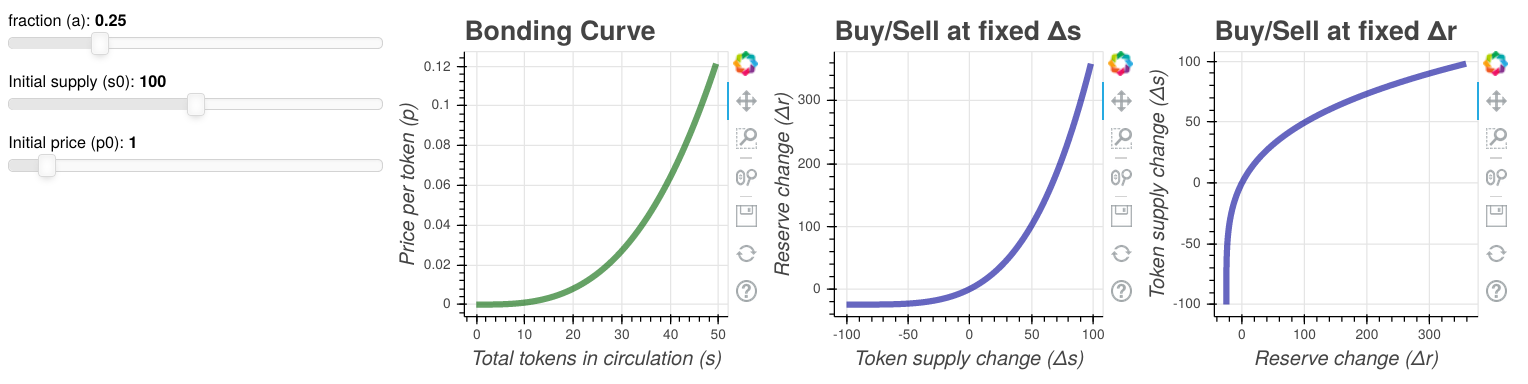
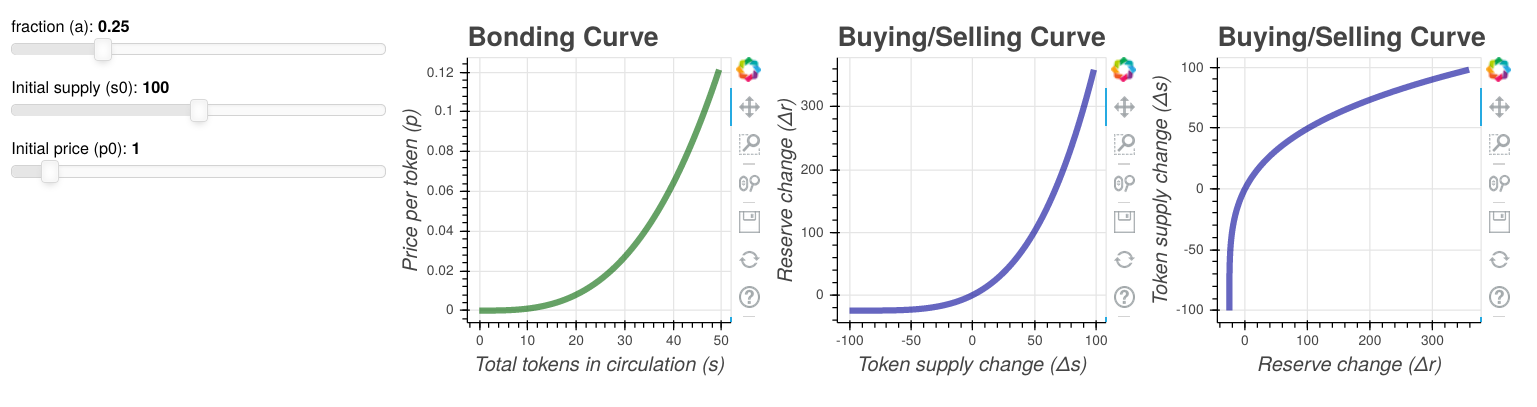
fixed titles on graph

diff --git a/_includes/blog-aux/2020_07_26_bancor_v1_bonding_curve.html b/_includes/blog-aux/2020_07_26_bancor_v1_bonding_curve.html
@@ -34,14 +34,14 @@
           
           
             
-              <div class="bk-root" id="29749f99-daf9-4105-abf7-8b9b78729167" data-root-id="1128"></div>
+              <div class="bk-root" id="88ffb089-7964-4b75-82d1-b524e95e16f4" data-root-id="1127"></div>
             
           
         
       
       
-        <script type="application/json" id="1353">
-          {"8e31af97-c3a5-4c50-aa85-7bd8824f951f":{"roots":{"references":[{"attributes":{"below":[{"id":"1093"}],"center":[{"id":"1096"},{"id":"1100"}],"left":[{"id":"1097"}],"plot_height":300,"plot_width":300,"renderers":[{"id":"1118"}],"title":{"id":"1083"},"toolbar":{"id":"1108"},"x_range":{"id":"1085"},"x_scale":{"id":"1089"},"y_range":{"id":"1087"},"y_scale":{"id":"1091"}},"id":"1082","subtype":"Figure","type":"Plot"},{"attributes":{"bottom_units":"screen","fill_alpha":0.5,"fill_color":"lightgrey","left_units":"screen","level":"overlay","line_alpha":1.0,"line_color":"black","line_dash":[4,4],"line_width":2,"render_mode":"css","right_units":"screen","top_units":"screen"},"id":"1107","type":"BoxAnnotation"},{"attributes":{},"id":"1051","type":"LinearScale"},{"attributes":{},"id":"1135","type":"BasicTickFormatter"},{"attributes":{"callback":null,"mode":"vline","tooltips":[["Buy / Sell","@x2 tokens"],["Cost / Gain","$@y2"]]},"id":"1080","type":"HoverTool"},{"attributes":{},"id":"1085","type":"DataRange1d"},{"attributes":{},"id":"1137","type":"BasicTickFormatter"},{"attributes":{},"id":"1049","type":"LinearScale"},{"attributes":{"text":"Buy/Sell at fixed \u0394r","text_font_size":{"value":"16pt"}},"id":"1083","type":"Title"},{"attributes":{"end":200,"format":"0[.]00","js_property_callbacks":{"change:value":[{"id":"1125"}]},"start":0.01,"title":"Initial supply (s0)","value":100},"id":"1123","type":"Slider"},{"attributes":{"bottom_units":"screen","fill_alpha":0.5,"fill_color":"lightgrey","left_units":"screen","level":"overlay","line_alpha":1.0,"line_color":"black","line_dash":[4,4],"line_width":2,"render_mode":"css","right_units":"screen","top_units":"screen"},"id":"1027","type":"BoxAnnotation"},{"attributes":{"data":{"x1":[0.0,0.5,1.0,1.5,2.0,2.5,3.0,3.5000000000000004,4.0,4.5,5.0,5.5,6.0,6.5,7.000000000000001,7.5,8.0,8.5,9.0,9.5,10.0,10.5,11.0,11.5,12.0,12.5,13.0,13.5,14.000000000000002,14.499999999999998,15.0,15.5,16.0,16.5,17.0,17.5,18.0,18.5,19.0,19.5,20.0,20.5,21.0,21.5,22.0,22.5,23.0,23.5,24.0,24.5,25.0,25.5,26.0,26.5,27.0,27.500000000000004,28.000000000000004,28.499999999999996,28.999999999999996,29.5,30.0,30.5,31.0,31.5,32.0,32.5,33.0,33.5,34.0,34.5,35.0,35.5,36.0,36.5,37.0,37.5,38.0,38.5,39.0,39.5,40.0,40.5,41.0,41.5,42.0,42.5,43.0,43.5,44.0,44.5,45.0,45.5,46.0,46.5,47.0,47.5,48.0,48.5,49.0,49.5],"x2":[-100.0,-98.0,-96.0,-94.0,-92.0,-90.0,-88.0,-86.0,-84.0,-82.0,-80.0,-78.0,-76.0,-74.0,-72.0,-70.0,-68.0,-66.0,-64.0,-62.0,-60.0,-57.99999999999999,-56.00000000000001,-54.0,-52.0,-50.0,-48.0,-46.0,-44.0,-42.0,-40.0,-38.0,-36.0,-34.0,-32.0,-30.0,-28.000000000000004,-26.0,-24.0,-22.0,-20.0,-18.0,-16.0,-14.000000000000002,-12.0,-10.0,-8.0,-6.0,-4.0,-2.0,0.0,2.0,4.0,6.0,8.0,10.0,12.0,14.000000000000002,16.0,18.0,20.0,22.0,24.0,26.0,28.000000000000004,30.0,32.0,34.0,36.0,38.0,40.0,42.0,44.0,46.0,48.0,50.0,52.0,54.0,56.00000000000001,57.99999999999999,60.0,62.0,64.0,66.0,68.0,70.0,72.0,74.0,76.0,78.0,80.0,82.0,84.0,86.0,88.0,90.0,92.0,94.0,96.0,98.0],"y1":[0.0,1.2500000000000002e-07,1.0000000000000002e-06,3.3749999999999995e-06,8.000000000000001e-06,1.5625000000000004e-05,2.6999999999999996e-05,4.287500000000001e-05,6.400000000000001e-05,9.112499999999999e-05,0.00012500000000000003,0.000166375,0.00021599999999999996,0.000274625,0.0003430000000000001,0.00042187499999999994,0.0005120000000000001,0.0006141250000000001,0.0007289999999999999,0.0008573750000000001,0.0010000000000000002,0.0011576249999999998,0.001331,0.001520875,0.0017279999999999997,0.001953125,0.002197,0.0024603750000000003,0.0027440000000000008,0.0030486249999999993,0.0033749999999999995,0.0037238749999999998,0.004096000000000001,0.0044921250000000005,0.004913000000000001,0.005359374999999999,0.0058319999999999995,0.006331625,0.0068590000000000005,0.0074148750000000005,0.008000000000000002,0.008615124999999998,0.009260999999999998,0.009938375,0.010648,0.011390625000000001,0.012167,0.012977874999999998,0.013823999999999998,0.014706124999999999,0.015625,0.016581375000000002,0.017576,0.018609625,0.019683000000000003,0.020796875000000006,0.021952000000000006,0.023149124999999993,0.024388999999999994,0.025672374999999997,0.026999999999999996,0.028372625,0.029790999999999998,0.031255875,0.032768000000000005,0.034328125,0.035937000000000004,0.03759537500000001,0.039304000000000006,0.04106362499999999,0.04287499999999999,0.04473887499999999,0.046655999999999996,0.04862712499999999,0.050653,0.052734375,0.054872000000000004,0.057066625,0.059319000000000004,0.06162987500000001,0.06400000000000002,0.066430125,0.06892099999999998,0.07147337499999999,0.07408799999999999,0.07676562499999999,0.079507,0.082312875,0.085184,0.08812112500000001,0.09112500000000001,0.09419637500000001,0.097336,0.10054462500000001,0.10382299999999998,0.10717187499999999,0.11059199999999998,0.114084125,0.11764899999999999,0.121287375],"y2":[-25.0,-24.999996,-24.999936,-24.999676,-24.998976,-24.9975,-24.994816,-24.990396,-24.983616,-24.973755999999998,-24.959999999999997,-24.941436,-24.917056000000002,-24.885756,-24.846336,-24.7975,-24.737856,-24.665916,-24.580096,-24.478716,-24.36,-24.222076,-24.062976,-23.880636,-23.672895999999998,-23.4375,-23.172096,-22.874236,-22.541376,-22.170875999999996,-21.76,-21.305916,-20.805696,-20.256316,-19.654656000000003,-18.997500000000002,-18.281536000000003,-17.503356,-16.659456,-15.746235999999996,-14.759999999999998,-13.696955999999997,-12.553216,-11.324796000000001,-10.007616,-8.5975,-7.090175999999998,-5.481276000000005,-3.7663360000000035,-1.9407960000000029,0.0,2.060803999999999,4.246464000000005,6.561924000000008,9.012224000000007,11.60250000000001,14.337984000000015,17.224004000000022,20.265983999999985,23.46944399999999,26.839999999999996,30.38336399999999,34.105343999999995,38.011844,42.108864000000004,46.40250000000001,50.898944000000014,55.60448400000002,60.52550399999996,65.66848399999998,71.03999999999998,76.64672399999999,82.49542399999999,88.59296399999998,94.946304,101.5625,108.44870399999999,115.612164,123.06022400000003,130.80032400000005,138.84000000000003,147.18688400000005,155.84870400000005,164.83328400000005,174.14854400000007,183.80249999999995,193.80326399999998,204.15904399999997,214.878144,225.968964,237.44,249.29984399999992,261.5571839999999,274.22080399999993,287.2995839999999,300.80249999999995,314.73862399999996,329.117124,343.94726399999996,359.238404]},"selected":{"id":"1146"},"selection_policy":{"id":"1145"}},"id":"1001","type":"ColumnDataSource"},{"attributes":{},"id":"1139","type":"BasicTickFormatter"},{"attributes":{},"id":"1054","type":"BasicTicker"},{"attributes":{},"id":"1141","type":"BasicTickFormatter"},{"attributes":{"axis":{"id":"1053"},"ticker":null},"id":"1056","type":"Grid"},{"attributes":{},"id":"1089","type":"LinearScale"},{"attributes":{},"id":"1087","type":"DataRange1d"},{"attributes":{},"id":"1143","type":"BasicTickFormatter"},{"attributes":{"axis_label":"Token supply change (\u0394s)","axis_label_text_font_size":"12pt","formatter":{"id":"1139"},"ticker":{"id":"1054"}},"id":"1053","type":"LinearAxis"},{"attributes":{},"id":"1146","type":"Selection"},{"attributes":{"axis":{"id":"1057"},"dimension":1,"ticker":null},"id":"1060","type":"Grid"},{"attributes":{},"id":"1091","type":"LinearScale"},{"attributes":{},"id":"1058","type":"BasicTicker"},{"attributes":{"axis_label":"Reserve change (\u0394r)","axis_label_text_font_size":"12pt","formatter":{"id":"1137"},"ticker":{"id":"1058"}},"id":"1057","type":"LinearAxis"},{"attributes":{"axis_label":"Reserve change (\u0394r)","axis_label_text_font_size":"12pt","formatter":{"id":"1143"},"ticker":{"id":"1094"}},"id":"1093","type":"LinearAxis"},{"attributes":{"axis":{"id":"1097"},"dimension":1,"ticker":null},"id":"1100","type":"Grid"},{"attributes":{},"id":"1009","type":"LinearScale"},{"attributes":{},"id":"1094","type":"BasicTicker"},{"attributes":{"line_alpha":0.1,"line_color":"rgb(0, 0, 150)","line_width":5,"x":{"field":"x2"},"y":{"field":"y2"}},"id":"1077","type":"Line"},{"attributes":{"axis":{"id":"1093"},"ticker":null},"id":"1096","type":"Grid"},{"attributes":{},"id":"1018","type":"BasicTicker"},{"attributes":{},"id":"1011","type":"LinearScale"},{"attributes":{"data_source":{"id":"1001"},"glyph":{"id":"1076"},"hover_glyph":null,"muted_glyph":null,"nonselection_glyph":{"id":"1077"},"selection_glyph":null,"view":{"id":"1079"}},"id":"1078","type":"GlyphRenderer"},{"attributes":{},"id":"1098","type":"BasicTicker"},{"attributes":{"active_drag":"auto","active_inspect":"auto","active_multi":null,"active_scroll":"auto","active_tap":"auto","tools":[{"id":"1061"},{"id":"1062"},{"id":"1063"},{"id":"1064"},{"id":"1065"},{"id":"1066"},{"id":"1080"}]},"id":"1068","type":"Toolbar"},{"attributes":{"axis_label":"Token supply change (\u0394s)","axis_label_text_font_size":"12pt","formatter":{"id":"1141"},"ticker":{"id":"1098"}},"id":"1097","type":"LinearAxis"},{"attributes":{"axis_label":"Price per token (p)","axis_label_text_font_size":"12pt","formatter":{"id":"1133"},"ticker":{"id":"1018"}},"id":"1017","type":"LinearAxis"},{"attributes":{"axis_label":"Total tokens in circulation (s)","axis_label_text_font_size":"12pt","formatter":{"id":"1135"},"ticker":{"id":"1014"}},"id":"1013","type":"LinearAxis"},{"attributes":{"source":{"id":"1001"}},"id":"1079","type":"CDSView"},{"attributes":{},"id":"1145","type":"UnionRenderers"},{"attributes":{},"id":"1061","type":"PanTool"},{"attributes":{},"id":"1062","type":"WheelZoomTool"},{"attributes":{},"id":"1014","type":"BasicTicker"},{"attributes":{"axis":{"id":"1013"},"ticker":null},"id":"1016","type":"Grid"},{"attributes":{"overlay":{"id":"1067"}},"id":"1063","type":"BoxZoomTool"},{"attributes":{"line_alpha":0.6,"line_color":"rgb(0, 0, 150)","line_width":5,"x":{"field":"y2"},"y":{"field":"x2"}},"id":"1116","type":"Line"},{"attributes":{},"id":"1064","type":"SaveTool"},{"attributes":{"callback":null,"mode":"vline","tooltips":[["Cash out / Pay","$@y2"],["Lose / Gain","$@x2 tokens"]]},"id":"1120","type":"HoverTool"},{"attributes":{"axis":{"id":"1017"},"dimension":1,"ticker":null},"id":"1020","type":"Grid"},{"attributes":{},"id":"1101","type":"PanTool"},{"attributes":{},"id":"1065","type":"ResetTool"},{"attributes":{"line_alpha":0.6,"line_color":"rgb(0, 0, 150)","line_width":5,"x":{"field":"x2"},"y":{"field":"y2"}},"id":"1076","type":"Line"},{"attributes":{},"id":"1102","type":"WheelZoomTool"},{"attributes":{},"id":"1047","type":"DataRange1d"},{"attributes":{},"id":"1066","type":"HelpTool"},{"attributes":{"overlay":{"id":"1107"}},"id":"1103","type":"BoxZoomTool"},{"attributes":{"data_source":{"id":"1001"},"glyph":{"id":"1036"},"hover_glyph":null,"muted_glyph":null,"nonselection_glyph":{"id":"1037"},"selection_glyph":null,"view":{"id":"1039"}},"id":"1038","type":"GlyphRenderer"},{"attributes":{},"id":"1045","type":"DataRange1d"},{"attributes":{},"id":"1104","type":"SaveTool"},{"attributes":{},"id":"1021","type":"PanTool"},{"attributes":{},"id":"1105","type":"ResetTool"},{"attributes":{"end":1,"format":"0[.]00","js_property_callbacks":{"change:value":[{"id":"1125"}]},"start":0.01,"step":0.01,"title":"fraction (a)","value":0.25},"id":"1122","type":"Slider"},{"attributes":{"overlay":{"id":"1027"}},"id":"1023","type":"BoxZoomTool"},{"attributes":{},"id":"1133","type":"BasicTickFormatter"},{"attributes":{},"id":"1106","type":"HelpTool"},{"attributes":{},"id":"1024","type":"SaveTool"},{"attributes":{},"id":"1007","type":"DataRange1d"},{"attributes":{"active_drag":"auto","active_inspect":"auto","active_multi":null,"active_scroll":"auto","active_tap":"auto","tools":[{"id":"1101"},{"id":"1102"},{"id":"1103"},{"id":"1104"},{"id":"1105"},{"id":"1106"},{"id":"1120"}]},"id":"1108","type":"Toolbar"},{"attributes":{},"id":"1025","type":"ResetTool"},{"attributes":{"children":[{"id":"1126"},{"id":"1127"}]},"id":"1128","type":"Row"},{"attributes":{"text":"Bonding Curve","text_font_size":{"value":"16pt"}},"id":"1003","type":"Title"},{"attributes":{"data_source":{"id":"1001"},"glyph":{"id":"1116"},"hover_glyph":null,"muted_glyph":null,"nonselection_glyph":{"id":"1117"},"selection_glyph":null,"view":{"id":"1119"}},"id":"1118","type":"GlyphRenderer"},{"attributes":{"text":"Buy/Sell at fixed \u0394s","text_font_size":{"value":"16pt"}},"id":"1043","type":"Title"},{"attributes":{},"id":"1026","type":"HelpTool"},{"attributes":{},"id":"1005","type":"DataRange1d"},{"attributes":{"children":[{"id":"1042"},{"id":"1082"}]},"id":"1127","type":"Column"},{"attributes":{"active_drag":"auto","active_inspect":"auto","active_multi":null,"active_scroll":"auto","active_tap":"auto","tools":[{"id":"1021"},{"id":"1022"},{"id":"1023"},{"id":"1024"},{"id":"1025"},{"id":"1026"},{"id":"1040"}]},"id":"1028","type":"Toolbar"},{"attributes":{"children":[{"id":"1002"},{"id":"1122"},{"id":"1123"},{"id":"1124"}]},"id":"1126","type":"Column"},{"attributes":{"args":{"slider1":{"id":"1122"},"slider2":{"id":"1123"},"slider3":{"id":"1124"},"source":{"id":"1001"}},"code":"\n    var data = source.data;\n    var f = slider1.value\n    var s = slider2.value\n    var p = slider3.value\n    var x1 = data['x1']\n    var y1 = data['y1']\n    var x2 = data['x2']\n    var y2 = data['y2']\n    for (var i = 0; i &lt; x1.length; i++) {\n        x1[i] = 2*(i/x1.length)*f*s*p\n        y1[i] = p*Math.pow(x1[i]/s, 1/f-1)\n        x2[i] = s*((i/x2.length - 0.5))\n        y2[i] = f*p*s*(Math.pow(1+x2[i]/s, 1/f)-1)\n    }\n    source.change.emit();\n"},"id":"1125","type":"CustomJS"},{"attributes":{"source":{"id":"1001"}},"id":"1039","type":"CDSView"},{"attributes":{"below":[{"id":"1013"}],"center":[{"id":"1016"},{"id":"1020"}],"left":[{"id":"1017"}],"plot_height":300,"plot_width":300,"renderers":[{"id":"1038"}],"title":{"id":"1003"},"toolbar":{"id":"1028"},"x_range":{"id":"1005"},"x_scale":{"id":"1009"},"y_range":{"id":"1007"},"y_scale":{"id":"1011"}},"id":"1002","subtype":"Figure","type":"Plot"},{"attributes":{"line_alpha":0.6,"line_color":"rgb(0, 100, 0)","line_width":5,"x":{"field":"x1"},"y":{"field":"y1"}},"id":"1036","type":"Line"},{"attributes":{"end":10,"format":"0[.]00","js_property_callbacks":{"change:value":[{"id":"1125"}]},"start":0.01,"step":0.1,"title":"Initial price (p0)","value":1},"id":"1124","type":"Slider"},{"attributes":{"callback":null,"mode":"vline","tooltips":[["Supply","@x1 tokens"],["Price","$@y1"]]},"id":"1040","type":"HoverTool"},{"attributes":{"line_alpha":0.1,"line_color":"rgb(0, 100, 0)","line_width":5,"x":{"field":"x1"},"y":{"field":"y1"}},"id":"1037","type":"Line"},{"attributes":{"below":[{"id":"1053"}],"center":[{"id":"1056"},{"id":"1060"}],"left":[{"id":"1057"}],"plot_height":300,"plot_width":300,"renderers":[{"id":"1078"}],"title":{"id":"1043"},"toolbar":{"id":"1068"},"x_range":{"id":"1045"},"x_scale":{"id":"1049"},"y_range":{"id":"1047"},"y_scale":{"id":"1051"}},"id":"1042","subtype":"Figure","type":"Plot"},{"attributes":{"line_alpha":0.1,"line_color":"rgb(0, 0, 150)","line_width":5,"x":{"field":"y2"},"y":{"field":"x2"}},"id":"1117","type":"Line"},{"attributes":{"bottom_units":"screen","fill_alpha":0.5,"fill_color":"lightgrey","left_units":"screen","level":"overlay","line_alpha":1.0,"line_color":"black","line_dash":[4,4],"line_width":2,"render_mode":"css","right_units":"screen","top_units":"screen"},"id":"1067","type":"BoxAnnotation"},{"attributes":{},"id":"1022","type":"WheelZoomTool"},{"attributes":{"source":{"id":"1001"}},"id":"1119","type":"CDSView"}],"root_ids":["1128"]},"title":"Bokeh Application","version":"2.0.2"}}
+        <script type="application/json" id="1352">
+          {"1207781d-a528-430d-baa7-545bba112c6d":{"roots":{"references":[{"attributes":{},"id":"1085","type":"DataRange1d"},{"attributes":{"callback":null,"mode":"vline","tooltips":[["Cash out / Pay","$@y2"],["Lose / Gain","$@x2 tokens"]]},"id":"1120","type":"HoverTool"},{"attributes":{"end":1,"format":"0[.]00","js_property_callbacks":{"change:value":[{"id":"1125"}]},"start":0.01,"step":0.01,"title":"fraction (a)","value":0.25},"id":"1122","type":"Slider"},{"attributes":{},"id":"1064","type":"SaveTool"},{"attributes":{"text":"Buying/Selling Curve","text_font_size":{"value":"16pt"}},"id":"1083","type":"Title"},{"attributes":{},"id":"1065","type":"ResetTool"},{"attributes":{"below":[{"id":"1013"}],"center":[{"id":"1016"},{"id":"1020"}],"left":[{"id":"1017"}],"plot_height":300,"plot_width":300,"renderers":[{"id":"1038"}],"title":{"id":"1003"},"toolbar":{"id":"1028"},"x_range":{"id":"1005"},"x_scale":{"id":"1009"},"y_range":{"id":"1007"},"y_scale":{"id":"1011"}},"id":"1002","subtype":"Figure","type":"Plot"},{"attributes":{"overlay":{"id":"1067"}},"id":"1063","type":"BoxZoomTool"},{"attributes":{"source":{"id":"1001"}},"id":"1119","type":"CDSView"},{"attributes":{"data":{"x1":[0.0,0.5,1.0,1.5,2.0,2.5,3.0,3.5000000000000004,4.0,4.5,5.0,5.5,6.0,6.5,7.000000000000001,7.5,8.0,8.5,9.0,9.5,10.0,10.5,11.0,11.5,12.0,12.5,13.0,13.5,14.000000000000002,14.499999999999998,15.0,15.5,16.0,16.5,17.0,17.5,18.0,18.5,19.0,19.5,20.0,20.5,21.0,21.5,22.0,22.5,23.0,23.5,24.0,24.5,25.0,25.5,26.0,26.5,27.0,27.500000000000004,28.000000000000004,28.499999999999996,28.999999999999996,29.5,30.0,30.5,31.0,31.5,32.0,32.5,33.0,33.5,34.0,34.5,35.0,35.5,36.0,36.5,37.0,37.5,38.0,38.5,39.0,39.5,40.0,40.5,41.0,41.5,42.0,42.5,43.0,43.5,44.0,44.5,45.0,45.5,46.0,46.5,47.0,47.5,48.0,48.5,49.0,49.5],"x2":[-100.0,-98.0,-96.0,-94.0,-92.0,-90.0,-88.0,-86.0,-84.0,-82.0,-80.0,-78.0,-76.0,-74.0,-72.0,-70.0,-68.0,-66.0,-64.0,-62.0,-60.0,-57.99999999999999,-56.00000000000001,-54.0,-52.0,-50.0,-48.0,-46.0,-44.0,-42.0,-40.0,-38.0,-36.0,-34.0,-32.0,-30.0,-28.000000000000004,-26.0,-24.0,-22.0,-20.0,-18.0,-16.0,-14.000000000000002,-12.0,-10.0,-8.0,-6.0,-4.0,-2.0,0.0,2.0,4.0,6.0,8.0,10.0,12.0,14.000000000000002,16.0,18.0,20.0,22.0,24.0,26.0,28.000000000000004,30.0,32.0,34.0,36.0,38.0,40.0,42.0,44.0,46.0,48.0,50.0,52.0,54.0,56.00000000000001,57.99999999999999,60.0,62.0,64.0,66.0,68.0,70.0,72.0,74.0,76.0,78.0,80.0,82.0,84.0,86.0,88.0,90.0,92.0,94.0,96.0,98.0],"y1":[0.0,1.2500000000000002e-07,1.0000000000000002e-06,3.3749999999999995e-06,8.000000000000001e-06,1.5625000000000004e-05,2.6999999999999996e-05,4.287500000000001e-05,6.400000000000001e-05,9.112499999999999e-05,0.00012500000000000003,0.000166375,0.00021599999999999996,0.000274625,0.0003430000000000001,0.00042187499999999994,0.0005120000000000001,0.0006141250000000001,0.0007289999999999999,0.0008573750000000001,0.0010000000000000002,0.0011576249999999998,0.001331,0.001520875,0.0017279999999999997,0.001953125,0.002197,0.0024603750000000003,0.0027440000000000008,0.0030486249999999993,0.0033749999999999995,0.0037238749999999998,0.004096000000000001,0.0044921250000000005,0.004913000000000001,0.005359374999999999,0.0058319999999999995,0.006331625,0.0068590000000000005,0.0074148750000000005,0.008000000000000002,0.008615124999999998,0.009260999999999998,0.009938375,0.010648,0.011390625000000001,0.012167,0.012977874999999998,0.013823999999999998,0.014706124999999999,0.015625,0.016581375000000002,0.017576,0.018609625,0.019683000000000003,0.020796875000000006,0.021952000000000006,0.023149124999999993,0.024388999999999994,0.025672374999999997,0.026999999999999996,0.028372625,0.029790999999999998,0.031255875,0.032768000000000005,0.034328125,0.035937000000000004,0.03759537500000001,0.039304000000000006,0.04106362499999999,0.04287499999999999,0.04473887499999999,0.046655999999999996,0.04862712499999999,0.050653,0.052734375,0.054872000000000004,0.057066625,0.059319000000000004,0.06162987500000001,0.06400000000000002,0.066430125,0.06892099999999998,0.07147337499999999,0.07408799999999999,0.07676562499999999,0.079507,0.082312875,0.085184,0.08812112500000001,0.09112500000000001,0.09419637500000001,0.097336,0.10054462500000001,0.10382299999999998,0.10717187499999999,0.11059199999999998,0.114084125,0.11764899999999999,0.121287375],"y2":[-25.0,-24.999996,-24.999936,-24.999676,-24.998976,-24.9975,-24.994816,-24.990396,-24.983616,-24.973755999999998,-24.959999999999997,-24.941436,-24.917056000000002,-24.885756,-24.846336,-24.7975,-24.737856,-24.665916,-24.580096,-24.478716,-24.36,-24.222076,-24.062976,-23.880636,-23.672895999999998,-23.4375,-23.172096,-22.874236,-22.541376,-22.170875999999996,-21.76,-21.305916,-20.805696,-20.256316,-19.654656000000003,-18.997500000000002,-18.281536000000003,-17.503356,-16.659456,-15.746235999999996,-14.759999999999998,-13.696955999999997,-12.553216,-11.324796000000001,-10.007616,-8.5975,-7.090175999999998,-5.481276000000005,-3.7663360000000035,-1.9407960000000029,0.0,2.060803999999999,4.246464000000005,6.561924000000008,9.012224000000007,11.60250000000001,14.337984000000015,17.224004000000022,20.265983999999985,23.46944399999999,26.839999999999996,30.38336399999999,34.105343999999995,38.011844,42.108864000000004,46.40250000000001,50.898944000000014,55.60448400000002,60.52550399999996,65.66848399999998,71.03999999999998,76.64672399999999,82.49542399999999,88.59296399999998,94.946304,101.5625,108.44870399999999,115.612164,123.06022400000003,130.80032400000005,138.84000000000003,147.18688400000005,155.84870400000005,164.83328400000005,174.14854400000007,183.80249999999995,193.80326399999998,204.15904399999997,214.878144,225.968964,237.44,249.29984399999992,261.5571839999999,274.22080399999993,287.2995839999999,300.80249999999995,314.73862399999996,329.117124,343.94726399999996,359.238404]},"selected":{"id":"1144"},"selection_policy":{"id":"1143"}},"id":"1001","type":"ColumnDataSource"},{"attributes":{},"id":"1062","type":"WheelZoomTool"},{"attributes":{},"id":"1089","type":"LinearScale"},{"attributes":{"bottom_units":"screen","fill_alpha":0.5,"fill_color":"lightgrey","left_units":"screen","level":"overlay","line_alpha":1.0,"line_color":"black","line_dash":[4,4],"line_width":2,"render_mode":"css","right_units":"screen","top_units":"screen"},"id":"1027","type":"BoxAnnotation"},{"attributes":{},"id":"1087","type":"DataRange1d"},{"attributes":{"args":{"slider1":{"id":"1122"},"slider2":{"id":"1123"},"slider3":{"id":"1124"},"source":{"id":"1001"}},"code":"\n    var data = source.data;\n    var f = slider1.value\n    var s = slider2.value\n    var p = slider3.value\n    var x1 = data['x1']\n    var y1 = data['y1']\n    var x2 = data['x2']\n    var y2 = data['y2']\n    for (var i = 0; i &lt; x1.length; i++) {\n        x1[i] = 2*(i/x1.length)*f*s*p\n        y1[i] = p*Math.pow(x1[i]/s, 1/f-1)\n        x2[i] = s*((i/x2.length - 0.5))\n        y2[i] = f*p*s*(Math.pow(1+x2[i]/s, 1/f)-1)\n    }\n    source.change.emit();\n"},"id":"1125","type":"CustomJS"},{"attributes":{"end":200,"format":"0[.]00","js_property_callbacks":{"change:value":[{"id":"1125"}]},"start":0.01,"title":"Initial supply (s0)","value":100},"id":"1123","type":"Slider"},{"attributes":{"axis_label":"Total tokens in circulation (s)","axis_label_text_font_size":"12pt","formatter":{"id":"1131"},"ticker":{"id":"1014"}},"id":"1013","type":"LinearAxis"},{"attributes":{"end":10,"format":"0[.]00","js_property_callbacks":{"change:value":[{"id":"1125"}]},"start":0.01,"step":0.1,"title":"Initial price (p0)","value":1},"id":"1124","type":"Slider"},{"attributes":{},"id":"1091","type":"LinearScale"},{"attributes":{"below":[{"id":"1093"}],"center":[{"id":"1096"},{"id":"1100"}],"left":[{"id":"1097"}],"plot_height":300,"plot_width":300,"renderers":[{"id":"1118"}],"title":{"id":"1083"},"toolbar":{"id":"1108"},"x_range":{"id":"1085"},"x_scale":{"id":"1089"},"y_range":{"id":"1087"},"y_scale":{"id":"1091"}},"id":"1082","subtype":"Figure","type":"Plot"},{"attributes":{},"id":"1011","type":"LinearScale"},{"attributes":{},"id":"1045","type":"DataRange1d"},{"attributes":{"axis_label":"Reserve change (\u0394r)","axis_label_text_font_size":"12pt","formatter":{"id":"1139"},"ticker":{"id":"1094"}},"id":"1093","type":"LinearAxis"},{"attributes":{"text":"Buying/Selling Curve","text_font_size":{"value":"16pt"}},"id":"1043","type":"Title"},{"attributes":{"axis":{"id":"1097"},"dimension":1,"ticker":null},"id":"1100","type":"Grid"},{"attributes":{"children":[{"id":"1122"},{"id":"1123"},{"id":"1124"}]},"id":"1126","type":"Column"},{"attributes":{"axis":{"id":"1057"},"dimension":1,"ticker":null},"id":"1060","type":"Grid"},{"attributes":{},"id":"1094","type":"BasicTicker"},{"attributes":{},"id":"1007","type":"DataRange1d"},{"attributes":{},"id":"1049","type":"LinearScale"},{"attributes":{},"id":"1047","type":"DataRange1d"},{"attributes":{"axis":{"id":"1093"},"ticker":null},"id":"1096","type":"Grid"},{"attributes":{"line_alpha":0.6,"line_color":"rgb(0, 100, 0)","line_width":5,"x":{"field":"x1"},"y":{"field":"y1"}},"id":"1036","type":"Line"},{"attributes":{},"id":"1098","type":"BasicTicker"},{"attributes":{"below":[{"id":"1053"}],"center":[{"id":"1056"},{"id":"1060"}],"left":[{"id":"1057"}],"plot_height":300,"plot_width":300,"renderers":[{"id":"1078"}],"title":{"id":"1043"},"toolbar":{"id":"1068"},"x_range":{"id":"1045"},"x_scale":{"id":"1049"},"y_range":{"id":"1047"},"y_scale":{"id":"1051"}},"id":"1042","subtype":"Figure","type":"Plot"},{"attributes":{"axis_label":"Token supply change (\u0394s)","axis_label_text_font_size":"12pt","formatter":{"id":"1141"},"ticker":{"id":"1098"}},"id":"1097","type":"LinearAxis"},{"attributes":{"children":[{"id":"1126"},{"id":"1002"},{"id":"1042"},{"id":"1082"}]},"id":"1127","type":"Row"},{"attributes":{},"id":"1051","type":"LinearScale"},{"attributes":{"axis":{"id":"1017"},"dimension":1,"ticker":null},"id":"1020","type":"Grid"},{"attributes":{},"id":"1061","type":"PanTool"},{"attributes":{"axis_label":"Token supply change (\u0394s)","axis_label_text_font_size":"12pt","formatter":{"id":"1135"},"ticker":{"id":"1054"}},"id":"1053","type":"LinearAxis"},{"attributes":{"active_drag":"auto","active_inspect":"auto","active_multi":null,"active_scroll":"auto","active_tap":"auto","tools":[{"id":"1061"},{"id":"1062"},{"id":"1063"},{"id":"1064"},{"id":"1065"},{"id":"1066"},{"id":"1080"}]},"id":"1068","type":"Toolbar"},{"attributes":{},"id":"1014","type":"BasicTicker"},{"attributes":{},"id":"1054","type":"BasicTicker"},{"attributes":{"line_alpha":0.1,"line_color":"rgb(0, 0, 150)","line_width":5,"x":{"field":"y2"},"y":{"field":"x2"}},"id":"1117","type":"Line"},{"attributes":{"axis":{"id":"1013"},"ticker":null},"id":"1016","type":"Grid"},{"attributes":{"axis":{"id":"1053"},"ticker":null},"id":"1056","type":"Grid"},{"attributes":{"active_drag":"auto","active_inspect":"auto","active_multi":null,"active_scroll":"auto","active_tap":"auto","tools":[{"id":"1101"},{"id":"1102"},{"id":"1103"},{"id":"1104"},{"id":"1105"},{"id":"1106"},{"id":"1120"}]},"id":"1108","type":"Toolbar"},{"attributes":{},"id":"1018","type":"BasicTicker"},{"attributes":{"line_alpha":0.6,"line_color":"rgb(0, 0, 150)","line_width":5,"x":{"field":"y2"},"y":{"field":"x2"}},"id":"1116","type":"Line"},{"attributes":{},"id":"1058","type":"BasicTicker"},{"attributes":{"axis_label":"Price per token (p)","axis_label_text_font_size":"12pt","formatter":{"id":"1133"},"ticker":{"id":"1018"}},"id":"1017","type":"LinearAxis"},{"attributes":{},"id":"1009","type":"LinearScale"},{"attributes":{"axis_label":"Reserve change (\u0394r)","axis_label_text_font_size":"12pt","formatter":{"id":"1137"},"ticker":{"id":"1058"}},"id":"1057","type":"LinearAxis"},{"attributes":{},"id":"1101","type":"PanTool"},{"attributes":{},"id":"1102","type":"WheelZoomTool"},{"attributes":{"data_source":{"id":"1001"},"glyph":{"id":"1076"},"hover_glyph":null,"muted_glyph":null,"nonselection_glyph":{"id":"1077"},"selection_glyph":null,"view":{"id":"1079"}},"id":"1078","type":"GlyphRenderer"},{"attributes":{"source":{"id":"1001"}},"id":"1039","type":"CDSView"},{"attributes":{},"id":"1066","type":"HelpTool"},{"attributes":{"overlay":{"id":"1107"}},"id":"1103","type":"BoxZoomTool"},{"attributes":{"active_drag":"auto","active_inspect":"auto","active_multi":null,"active_scroll":"auto","active_tap":"auto","tools":[{"id":"1021"},{"id":"1022"},{"id":"1023"},{"id":"1024"},{"id":"1025"},{"id":"1026"},{"id":"1040"}]},"id":"1028","type":"Toolbar"},{"attributes":{},"id":"1104","type":"SaveTool"},{"attributes":{"data_source":{"id":"1001"},"glyph":{"id":"1036"},"hover_glyph":null,"muted_glyph":null,"nonselection_glyph":{"id":"1037"},"selection_glyph":null,"view":{"id":"1039"}},"id":"1038","type":"GlyphRenderer"},{"attributes":{},"id":"1105","type":"ResetTool"},{"attributes":{"line_alpha":0.1,"line_color":"rgb(0, 100, 0)","line_width":5,"x":{"field":"x1"},"y":{"field":"y1"}},"id":"1037","type":"Line"},{"attributes":{"data_source":{"id":"1001"},"glyph":{"id":"1116"},"hover_glyph":null,"muted_glyph":null,"nonselection_glyph":{"id":"1117"},"selection_glyph":null,"view":{"id":"1119"}},"id":"1118","type":"GlyphRenderer"},{"attributes":{},"id":"1144","type":"Selection"},{"attributes":{},"id":"1021","type":"PanTool"},{"attributes":{},"id":"1106","type":"HelpTool"},{"attributes":{},"id":"1022","type":"WheelZoomTool"},{"attributes":{},"id":"1137","type":"BasicTickFormatter"},{"attributes":{"overlay":{"id":"1027"}},"id":"1023","type":"BoxZoomTool"},{"attributes":{},"id":"1024","type":"SaveTool"},{"attributes":{},"id":"1139","type":"BasicTickFormatter"},{"attributes":{},"id":"1025","type":"ResetTool"},{"attributes":{},"id":"1143","type":"UnionRenderers"},{"attributes":{"callback":null,"mode":"vline","tooltips":[["Supply","@x1 tokens"],["Price","$@y1"]]},"id":"1040","type":"HoverTool"},{"attributes":{"text":"Bonding Curve","text_font_size":{"value":"16pt"}},"id":"1003","type":"Title"},{"attributes":{},"id":"1135","type":"BasicTickFormatter"},{"attributes":{"bottom_units":"screen","fill_alpha":0.5,"fill_color":"lightgrey","left_units":"screen","level":"overlay","line_alpha":1.0,"line_color":"black","line_dash":[4,4],"line_width":2,"render_mode":"css","right_units":"screen","top_units":"screen"},"id":"1067","type":"BoxAnnotation"},{"attributes":{},"id":"1026","type":"HelpTool"},{"attributes":{},"id":"1131","type":"BasicTickFormatter"},{"attributes":{},"id":"1133","type":"BasicTickFormatter"},{"attributes":{},"id":"1141","type":"BasicTickFormatter"},{"attributes":{},"id":"1005","type":"DataRange1d"},{"attributes":{"line_alpha":0.1,"line_color":"rgb(0, 0, 150)","line_width":5,"x":{"field":"x2"},"y":{"field":"y2"}},"id":"1077","type":"Line"},{"attributes":{"bottom_units":"screen","fill_alpha":0.5,"fill_color":"lightgrey","left_units":"screen","level":"overlay","line_alpha":1.0,"line_color":"black","line_dash":[4,4],"line_width":2,"render_mode":"css","right_units":"screen","top_units":"screen"},"id":"1107","type":"BoxAnnotation"},{"attributes":{"line_alpha":0.6,"line_color":"rgb(0, 0, 150)","line_width":5,"x":{"field":"x2"},"y":{"field":"y2"}},"id":"1076","type":"Line"},{"attributes":{"source":{"id":"1001"}},"id":"1079","type":"CDSView"},{"attributes":{"callback":null,"mode":"vline","tooltips":[["Buy / Sell","@x2 tokens"],["Cost / Gain","$@y2"]]},"id":"1080","type":"HoverTool"}],"root_ids":["1127"]},"title":"Bokeh Application","version":"2.0.2"}}
         </script>
         <script type="text/javascript">
           (function() {
@@ -50,8 +50,8 @@
                 (function(root) {
                   function embed_document(root) {
                     
-                  var docs_json = document.getElementById('1353').textContent;
-                  var render_items = [{"docid":"8e31af97-c3a5-4c50-aa85-7bd8824f951f","root_ids":["1128"],"roots":{"1128":"29749f99-daf9-4105-abf7-8b9b78729167"}}];
+                  var docs_json = document.getElementById('1352').textContent;
+                  var render_items = [{"docid":"1207781d-a528-430d-baa7-545bba112c6d","root_ids":["1127"],"roots":{"1127":"88ffb089-7964-4b75-82d1-b524e95e16f4"}}];
                   root.Bokeh.embed.embed_items(docs_json, render_items);
                 
                   }

diff --git a/python/2020_07_26_bancor_v1_bonding_curve.py b/python/2020_07_26_bancor_v1_bonding_curve.py
@@ -39,7 +39,7 @@ plots[0].add_tools(HoverTool(tooltips=[('Supply', '@x1 tokens'), ('Price', '$@y1
 
 # Buying/selling at Fixed token change
 plots[1] = Figure(plot_width=pw, plot_height=ph,
-                  title="Buy/Sell at fixed Δs",
+                  title="Buying/Selling Curve",
                   x_axis_label="Token supply change (Δs)",
                   y_axis_label="Reserve change (Δr)")
 plots[1].line(x='x2', y='y2', source=source, line_width=5, line_alpha=0.6, color=blue)
@@ -48,7 +48,7 @@ plots[1].add_tools(HoverTool(tooltips=[('Buy / Sell', '@x2 tokens'), ('Cost / Ga
 
 # Buying/selling at Fixed reserve change
 plots[2] = Figure(plot_width=pw, plot_height=ph,
-                  title="Buy/Sell at fixed Δr",
+                  title="Buying/Selling Curve",
                   x_axis_label="Reserve change (Δr)",
                   y_axis_label="Token supply change (Δs)")
 plots[2].line(x='y2', y='x2', source=source, line_width=5, line_alpha=0.6, color=blue)
@@ -94,8 +94,8 @@ slider2.js_on_change('value', callback)
 slider3.js_on_change('value', callback)
 
 # organize into rows and columns, then show it
-show(row(column(plots[0], slider1, slider2, slider3),
-         column(plots[1], plots[2])))
+#show(row(column(plots[0], slider1, slider2, slider3),
+#         column(plots[1], plots[2])))
 
-#show(row(column(slider1, slider2, slider3),
-#         plots[0], plots[1], plots[2]))
+show(row(column(slider1, slider2, slider3),
+         plots[0], plots[1], plots[2]))

diff --git a/_posts/2020-07-25-bancor-v1-bonding-curve.md b/_posts/2020-07-25-bancor-v1-bonding-curve.md
@@ -49,10 +49,11 @@ energy in a reversible path if we were talking about physical
 systems. How is liquidity *ensured* in regular markets?  Liquidity is
 facilitated by [Market
 Makers](https://en.wikipedia.org/wiki/Market_maker), which buy and sell
-assets making some profit from a bet on future price or by charging a
-commission. Liquidity is very important for a healthy economy, as
-illiquid assets can lead to economic crisis (e.g. the [Subprime mortgage
-crisis](https://en.wikipedia.org/wiki/Subprime_mortgage_crisis).
+assets making some profit from betting on the future price or by
+charging a commission. Liquidity is very important for a healthy
+economy, as illiquid assets can lead to economic crisis (e.g. the
+[subprime mortgage
+crisis](https://en.wikipedia.org/wiki/Subprime_mortgage_crisis)).
 
 So deciding how tokens are priced is crucial, if they intend to be used
 as stable means for trade.
@@ -153,7 +154,7 @@ To encode fractional-banking, the value of the reserve should be a
 linear function of the total value in the supply, which is
 $$p(s)$$ times $$s$$
 
-$$r(s) = a p(s) s $$
+$$r(s) = a s p(s)$$
 
 and to maintain the "fractional" meaning, the constant $$a$$ should be
 in the range $$0 < a \le 1$$. For example, picking $$a=0.5$$ means that
@@ -163,7 +164,7 @@ all times.
 Let's see how to obtain $$p(s)$$ and $$r(s)$$. First, note that by using
 the chain rule the price should satisfy the following equation
 
-$$p(s) = r^{\prime}(s)\left(\frac{d p }{d s}s + p\right) = a\left(\frac{d p }{d s}s + p\right)$$
+$$p(s) = a\left(\frac{d p }{d s}s + p\right)$$
 
 which is enough to derive the bonding curve $$p(s)$$ (see this
 [link](https://www.wolframalpha.com/input/?i=p+%3D+a*%28p%27x%2Bp%29)
@@ -176,7 +177,7 @@ values for which the mapping is known, e.g. their initial values.
 
 Finally, we can obtain the value of the reserve by replacing $$p(s)$$ 
 
-$$r(s) = ap(s)s = a p_0 s_0^{1-\frac{1}{a}} s^{\frac{1}{a}} $$
+$$r(s) = asp(s) = a p_0 s_0^{1-\frac{1}{a}} s^{\frac{1}{a}} $$
 
 ### Buying and selling tokens
 
